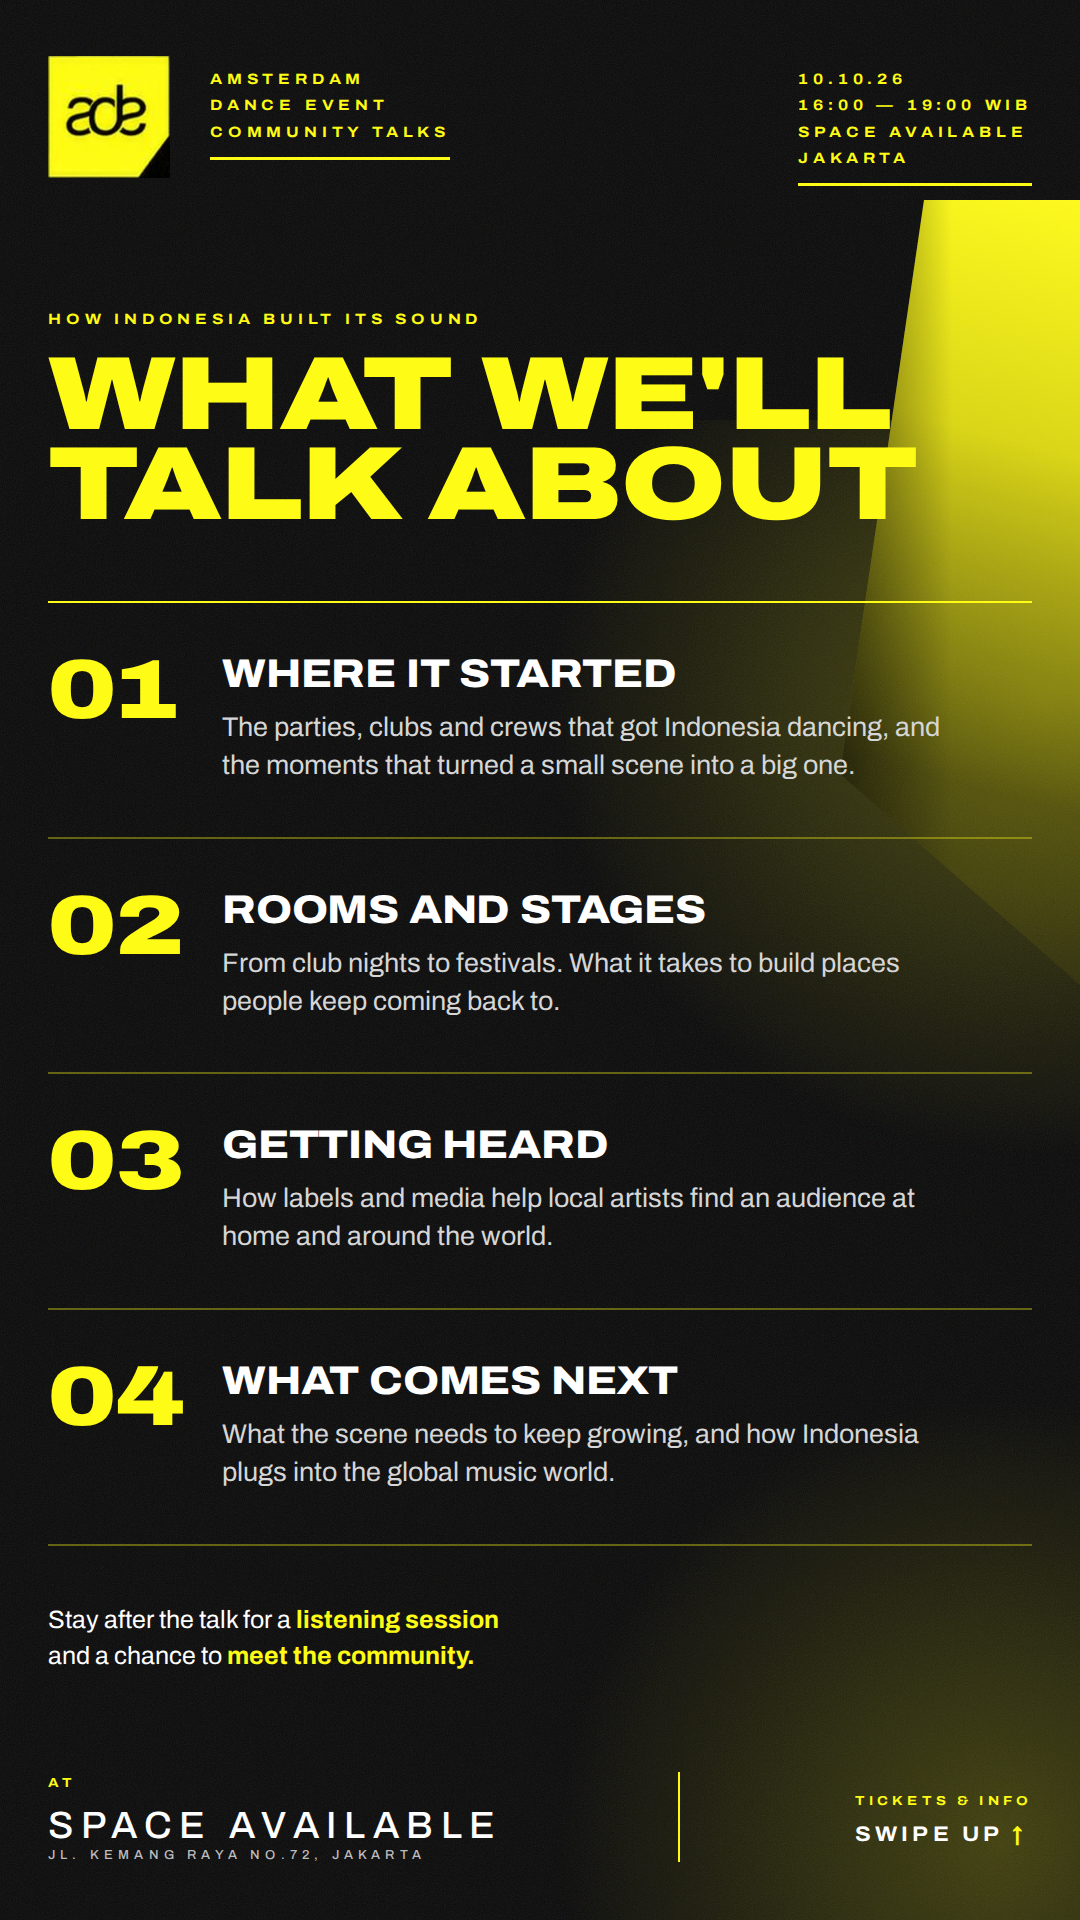
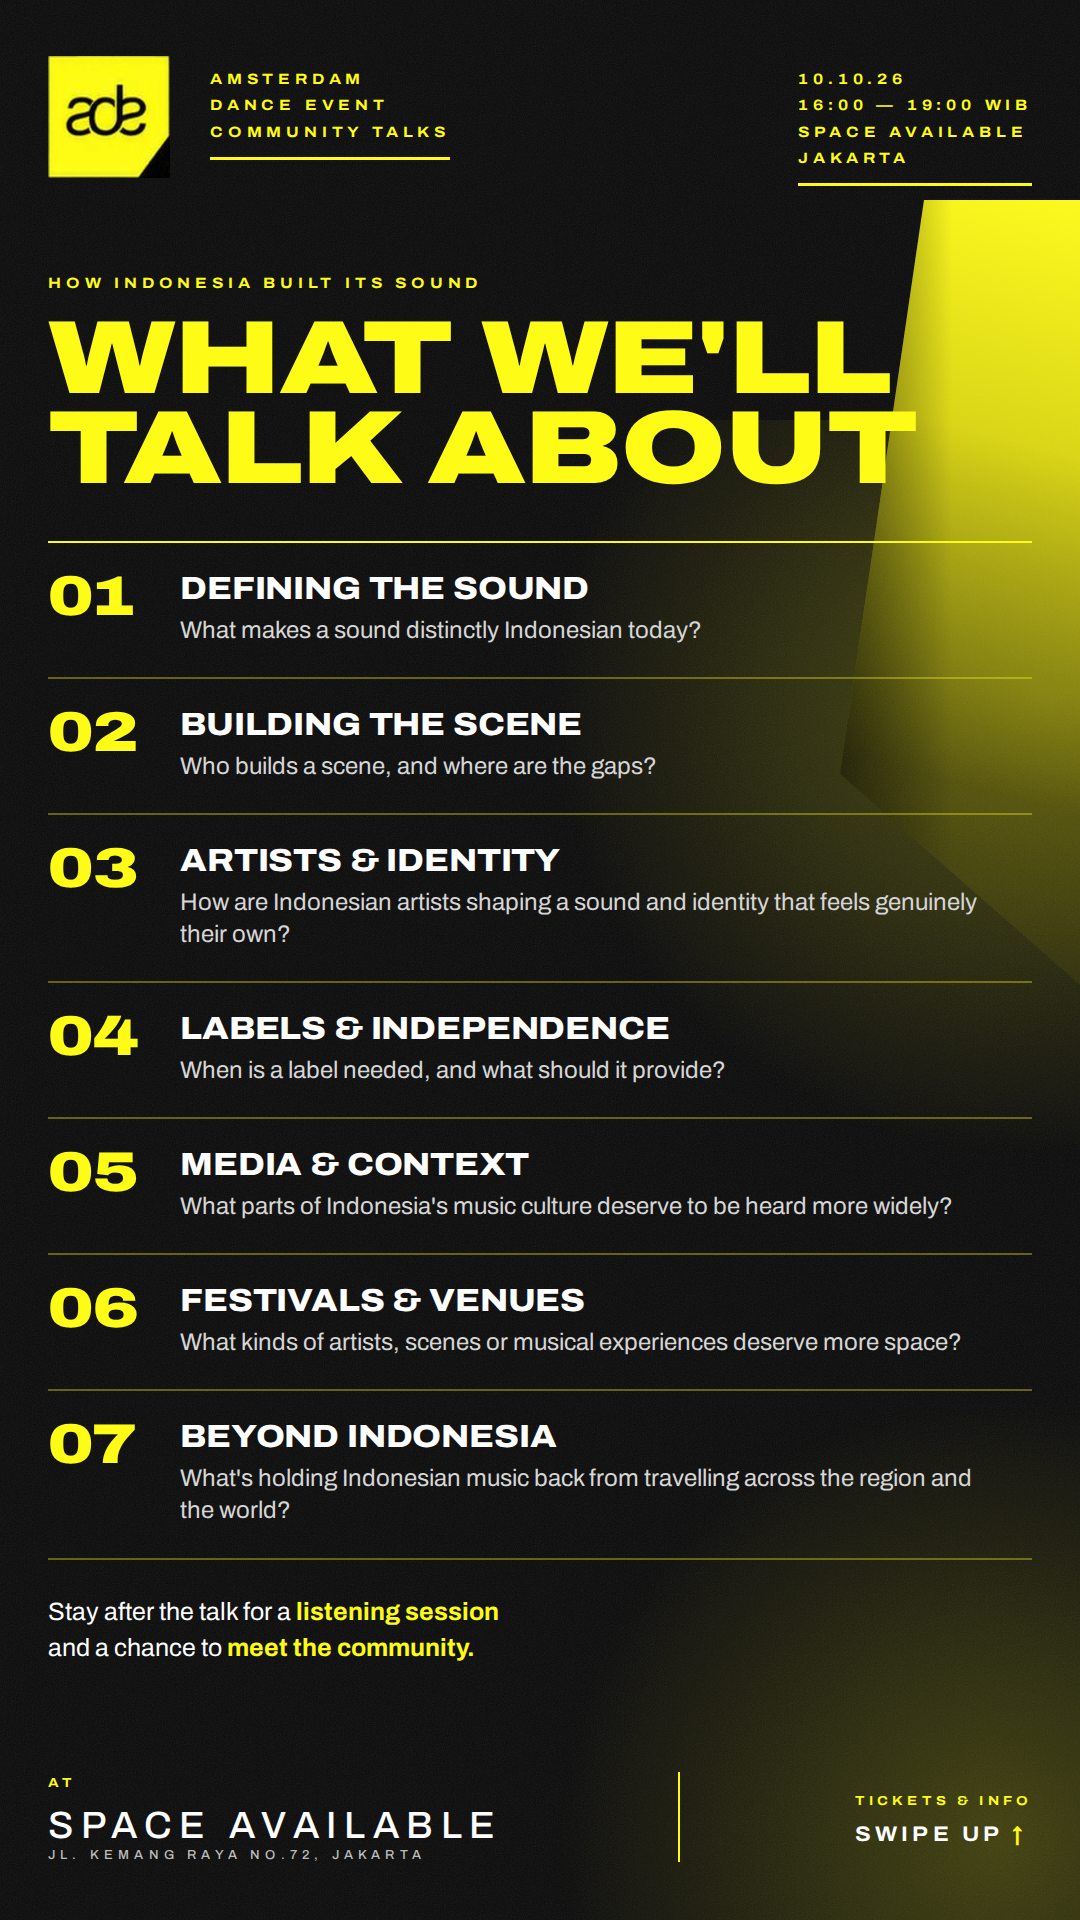
Update ADE flyer: seven confirmed topics, Kimo Rizky's full name
Claude-Session: https://claude.ai/code/session_01Sc5gF2HRFqjLpMQDrx7aqZ

Changed region(s): [[0.0306, 0.4375, 0.8861, 0.875], [0.0306, 0.125, 0.8556, 0.4062]]

diff --git a/events/ade-community-talks-2026/02-topics.html b/events/ade-community-talks-2026/02-topics.html
@@ -10,25 +10,34 @@
     <div class="tagline" style="padding-top:10px"><div class="eyebrow">10.10.26<br>16:00 — 19:00 WIB<br>Space Available<br>Jakarta</div><div class="rule"></div></div>
   </div>
 
-  <div class="eyebrow" style="margin-top:120px">How Indonesia Built Its Sound</div>
+  <div class="eyebrow" style="margin-top:84px">How Indonesia Built Its Sound</div>
   <h1 style="font-size:104px;margin-top:18px;white-space:nowrap">What we'll<br>talk about</h1>
 
-  <div class="topics" style="margin-top:72px">
+  <div class="topics" style="margin-top:48px">
     <div class="topic"><div class="no">01</div><div>
-      <h2>Where it started</h2>
-      <p>The parties, clubs and crews that got Indonesia dancing, and the moments that turned a small scene into a big one.</p></div></div>
+      <h2>Defining the Sound</h2>
+      <p>What makes a sound distinctly Indonesian today?</p></div></div>
     <div class="topic"><div class="no">02</div><div>
-      <h2>Rooms and stages</h2>
-      <p>From club nights to festivals. What it takes to build places people keep coming back to.</p></div></div>
+      <h2>Building the Scene</h2>
+      <p>Who builds a scene, and where are the gaps?</p></div></div>
     <div class="topic"><div class="no">03</div><div>
-      <h2>Getting heard</h2>
-      <p>How labels and media help local artists find an audience at home and around the world.</p></div></div>
+      <h2>Artists &amp; Identity</h2>
+      <p>How are Indonesian artists shaping a sound and identity that feels genuinely their own?</p></div></div>
     <div class="topic"><div class="no">04</div><div>
-      <h2>What comes next</h2>
-      <p>What the scene needs to keep growing, and how Indonesia plugs into the global music world.</p></div></div>
+      <h2>Labels &amp; Independence</h2>
+      <p>When is a label needed, and what should it provide?</p></div></div>
+    <div class="topic"><div class="no">05</div><div>
+      <h2>Media &amp; Context</h2>
+      <p>What parts of Indonesia's music culture deserve to be heard more widely?</p></div></div>
+    <div class="topic"><div class="no">06</div><div>
+      <h2>Festivals &amp; Venues</h2>
+      <p>What kinds of artists, scenes or musical experiences deserve more space?</p></div></div>
+    <div class="topic"><div class="no">07</div><div>
+      <h2>Beyond Indonesia</h2>
+      <p>What's holding Indonesian music back from travelling across the region and the world?</p></div></div>
   </div>
 
-  <div class="after" style="margin-top:56px">Stay after the talk for a <b>listening session</b><br>and a chance to <b>meet the community.</b></div>
+  <div class="after" style="margin-top:34px">Stay after the talk for a <b>listening session</b><br>and a chance to <b>meet the community.</b></div>
 
   <div class="foot" style="position:absolute;left:48px;right:48px;bottom:58px">
     <div class="col"><div class="eyebrow" style="font-size:13px">At</div><div class="venue">SPACE AVAILABLE<small>JL. KEMANG RAYA NO.72, JAKARTA</small></div></div>

diff --git a/events/ade-community-talks-2026/style.css b/events/ade-community-talks-2026/style.css
@@ -70,9 +70,9 @@ h1 { font-weight: 900; font-stretch: 125%; color: var(--y); text-transform: uppe
 
 /* topics page */
 .topics { border-top: 2px solid var(--y); }
-.topic { display: grid; grid-template-columns: 150px 1fr; gap: 24px; padding: 50px 0 52px; border-bottom: 2px solid rgba(254,251,22,.35); }
-.topic .no { font-size: 84px; font-weight: 900; font-stretch: 125%; color: var(--y); line-height: .9; }
-.topic h2 { font-size: 40px; font-weight: 800; font-stretch: 112%; text-transform: uppercase; line-height: 1.05; letter-spacing: -.005em; }
-.topic p { font-size: 27px; color: #d6d6d6; line-height: 1.4; margin-top: 14px; max-width: 760px; }
+.topic { display: grid; grid-template-columns: 112px 1fr; gap: 20px; padding: 29px 0 31px; border-bottom: 2px solid rgba(254,251,22,.35); }
+.topic .no { font-size: 56px; font-weight: 900; font-stretch: 125%; color: var(--y); line-height: .9; }
+.topic h2 { font-size: 32px; font-weight: 800; font-stretch: 112%; text-transform: uppercase; line-height: 1.05; letter-spacing: -.005em; }
+.topic p { font-size: 24px; color: #d6d6d6; line-height: 1.35; margin-top: 8px; max-width: 800px; }
 .after { font-size: 25px; line-height: 1.45; color: #fff; }
 .after b { color: var(--y); font-weight: 700; }

diff --git a/events/ade-community-talks-2026/01-lineup.html b/events/ade-community-talks-2026/01-lineup.html
@@ -30,7 +30,7 @@
     <div class="card"><div class="ph"><img src="img/david.png"></div><div class="cap"><div class="nm">David Ferdian</div><div class="org">Ismaya Live</div></div></div>
     <div class="card"><div class="ph"><img src="img/hogi.png"></div><div class="cap"><div class="nm">Hogi Wirjono</div><div class="org">Future 10 / Echoes</div></div></div>
     <div class="card"><div class="ph"><img src="img/amira.png"></div><div class="cap"><div class="nm">Amira Waworuntu</div><div class="org">Mixmag Asia</div></div></div>
-    <div class="card"><div class="ph"><img src="img/kimo.png"></div><div class="cap"><div class="nm">Kimo</div><div class="org">Double Deer</div></div></div>
+    <div class="card"><div class="ph"><img src="img/kimo.png"></div><div class="cap"><div class="nm">Kimo Rizky</div><div class="org">Double Deer</div></div></div>
     <div class="card"><div class="ph"><img src="img/sergio.png"></div><div class="cap"><div class="nm">Sergio Berlino</div><div class="org">Le Cirque</div></div></div>
     <div class="card duo"><div class="ph"><img src="img/tripo.png"></div><div class="cap"><div class="nm">Hendy Kana &amp; Mayo</div><div class="org">Tripo 3000</div></div></div>
   </div>
